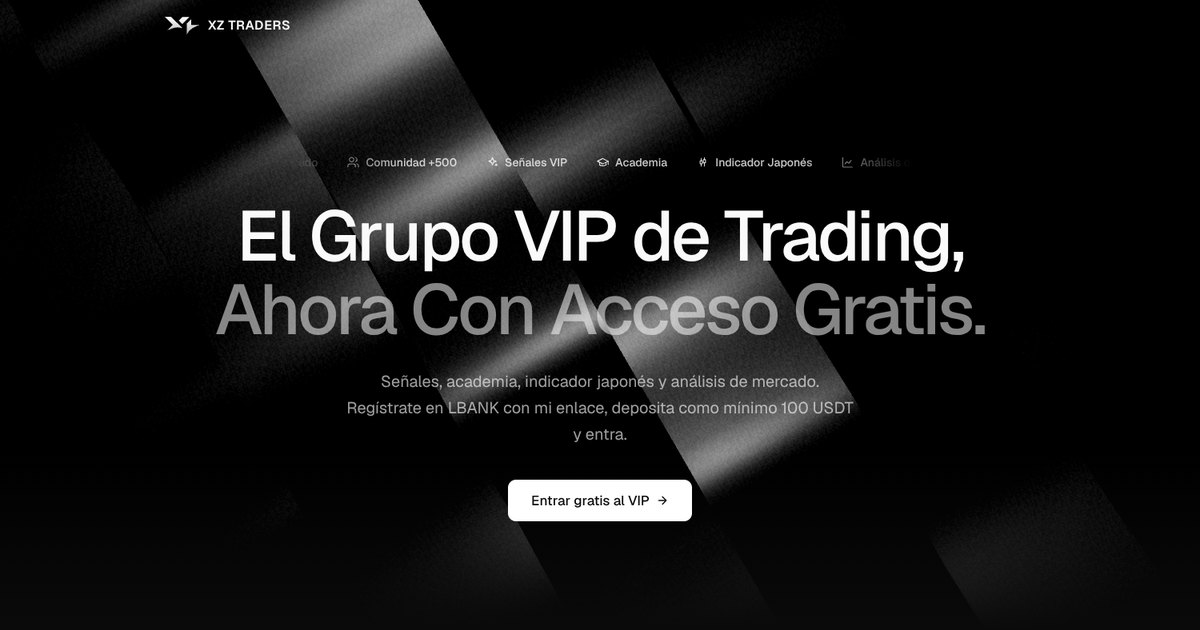
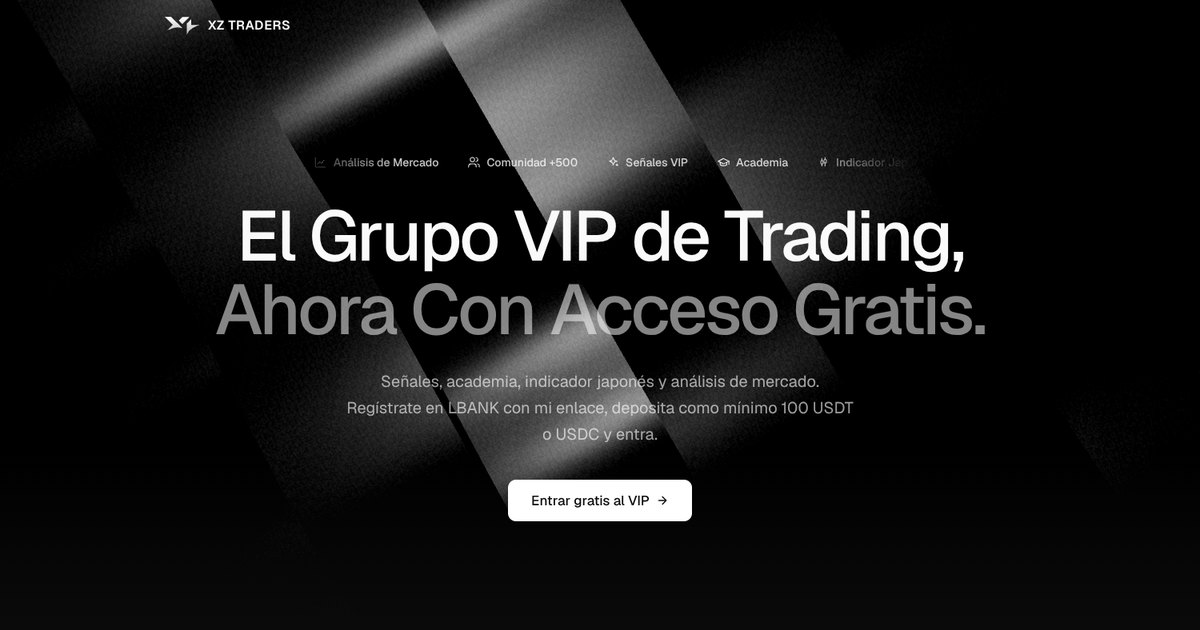
Accept USDT or USDC for the minimum deposit
Step 2 title, hero copy, FAQ and meta description now say "100 USDT o
USDC"; the FAQ question becomes "¿El depósito es un pago?". Regenerate
the social image.

Claude-Session: https://claude.ai/code/session_01QuxEd8b3DRymqb3iL2U1RG

Changed region(s): [[0.1542, 0.0, 0.74, 0.8746], [0.0925, 0.0, 0.185, 0.0905]]

diff --git a/index.html b/index.html
@@ -12,7 +12,7 @@
     <title>XZ TRADERS · Grupo VIP de Señales de Trading con Acceso Gratis</title>
     <meta
       name="description"
-      content="Únete gratis al grupo VIP de XZ TRADERS: señales, academia, indicador japonés y análisis. Más de 500 miembros. Regístrate en LBANK con nuestro enlace y deposita como mínimo 100 USDT."
+      content="Únete gratis al grupo VIP de XZ TRADERS: señales, academia, indicador japonés y análisis. Más de 500 miembros. Regístrate en LBANK con nuestro enlace y deposita como mínimo 100 USDT o USDC."
     />
     <meta name="theme-color" content="#000000" />
     <link rel="canonical" href="https://xztraders.com/" />
@@ -123,7 +123,7 @@
 
           <p class="hero__lead">
             Señales, academia, indicador japonés y análisis de mercado.
-            Regístrate en LBANK con mi enlace, deposita como mínimo 100&nbsp;USDT y entra.
+            Regístrate en LBANK con mi enlace, deposita como mínimo 100&nbsp;USDT o&nbsp;USDC y entra.
           </p>
 
           <div class="hero__ctas">
@@ -196,7 +196,7 @@
             </li>
             <li class="step reveal">
               <span class="step__num" aria-hidden="true">2</span>
-              <h3>Deposita mínimo 100&nbsp;USDT</h3>
+              <h3>Deposita mínimo 100&nbsp;USDT o&nbsp;USDC</h3>
               <p>Es <strong>tu capital</strong> para operar con la comunidad y se queda en tu cuenta de&nbsp;LBANK.</p>
               <p class="step__note"><svg aria-hidden="true"><use href="#i-shield" /></svg>No es un pago</p>
             </li>
@@ -228,10 +228,10 @@
             </details>
             <details>
               <summary>¿Cómo entro al VIP?<svg aria-hidden="true"><use href="#i-plus" /></svg></summary>
-              <p>Regístrate en LBANK con mi enlace, deposita como mínimo 100&nbsp;USDT para operar, habla con el <a class="link" href="#como-entrar" data-link="telegram">bot</a> y mándale tu UID. Y ya está.</p>
+              <p>Regístrate en LBANK con mi enlace, deposita como mínimo 100&nbsp;USDT o&nbsp;USDC para operar, habla con el <a class="link" href="#como-entrar" data-link="telegram">bot</a> y mándale tu UID. Y ya está.</p>
             </details>
             <details>
-              <summary>¿Los 100&nbsp;USDT son un pago?<svg aria-hidden="true"><use href="#i-plus" /></svg></summary>
+              <summary>¿El depósito es un pago?<svg aria-hidden="true"><use href="#i-plus" /></svg></summary>
               <p>No. Es tu capital para operar y se queda en tu cuenta de LBANK.</p>
             </details>
             <details>
